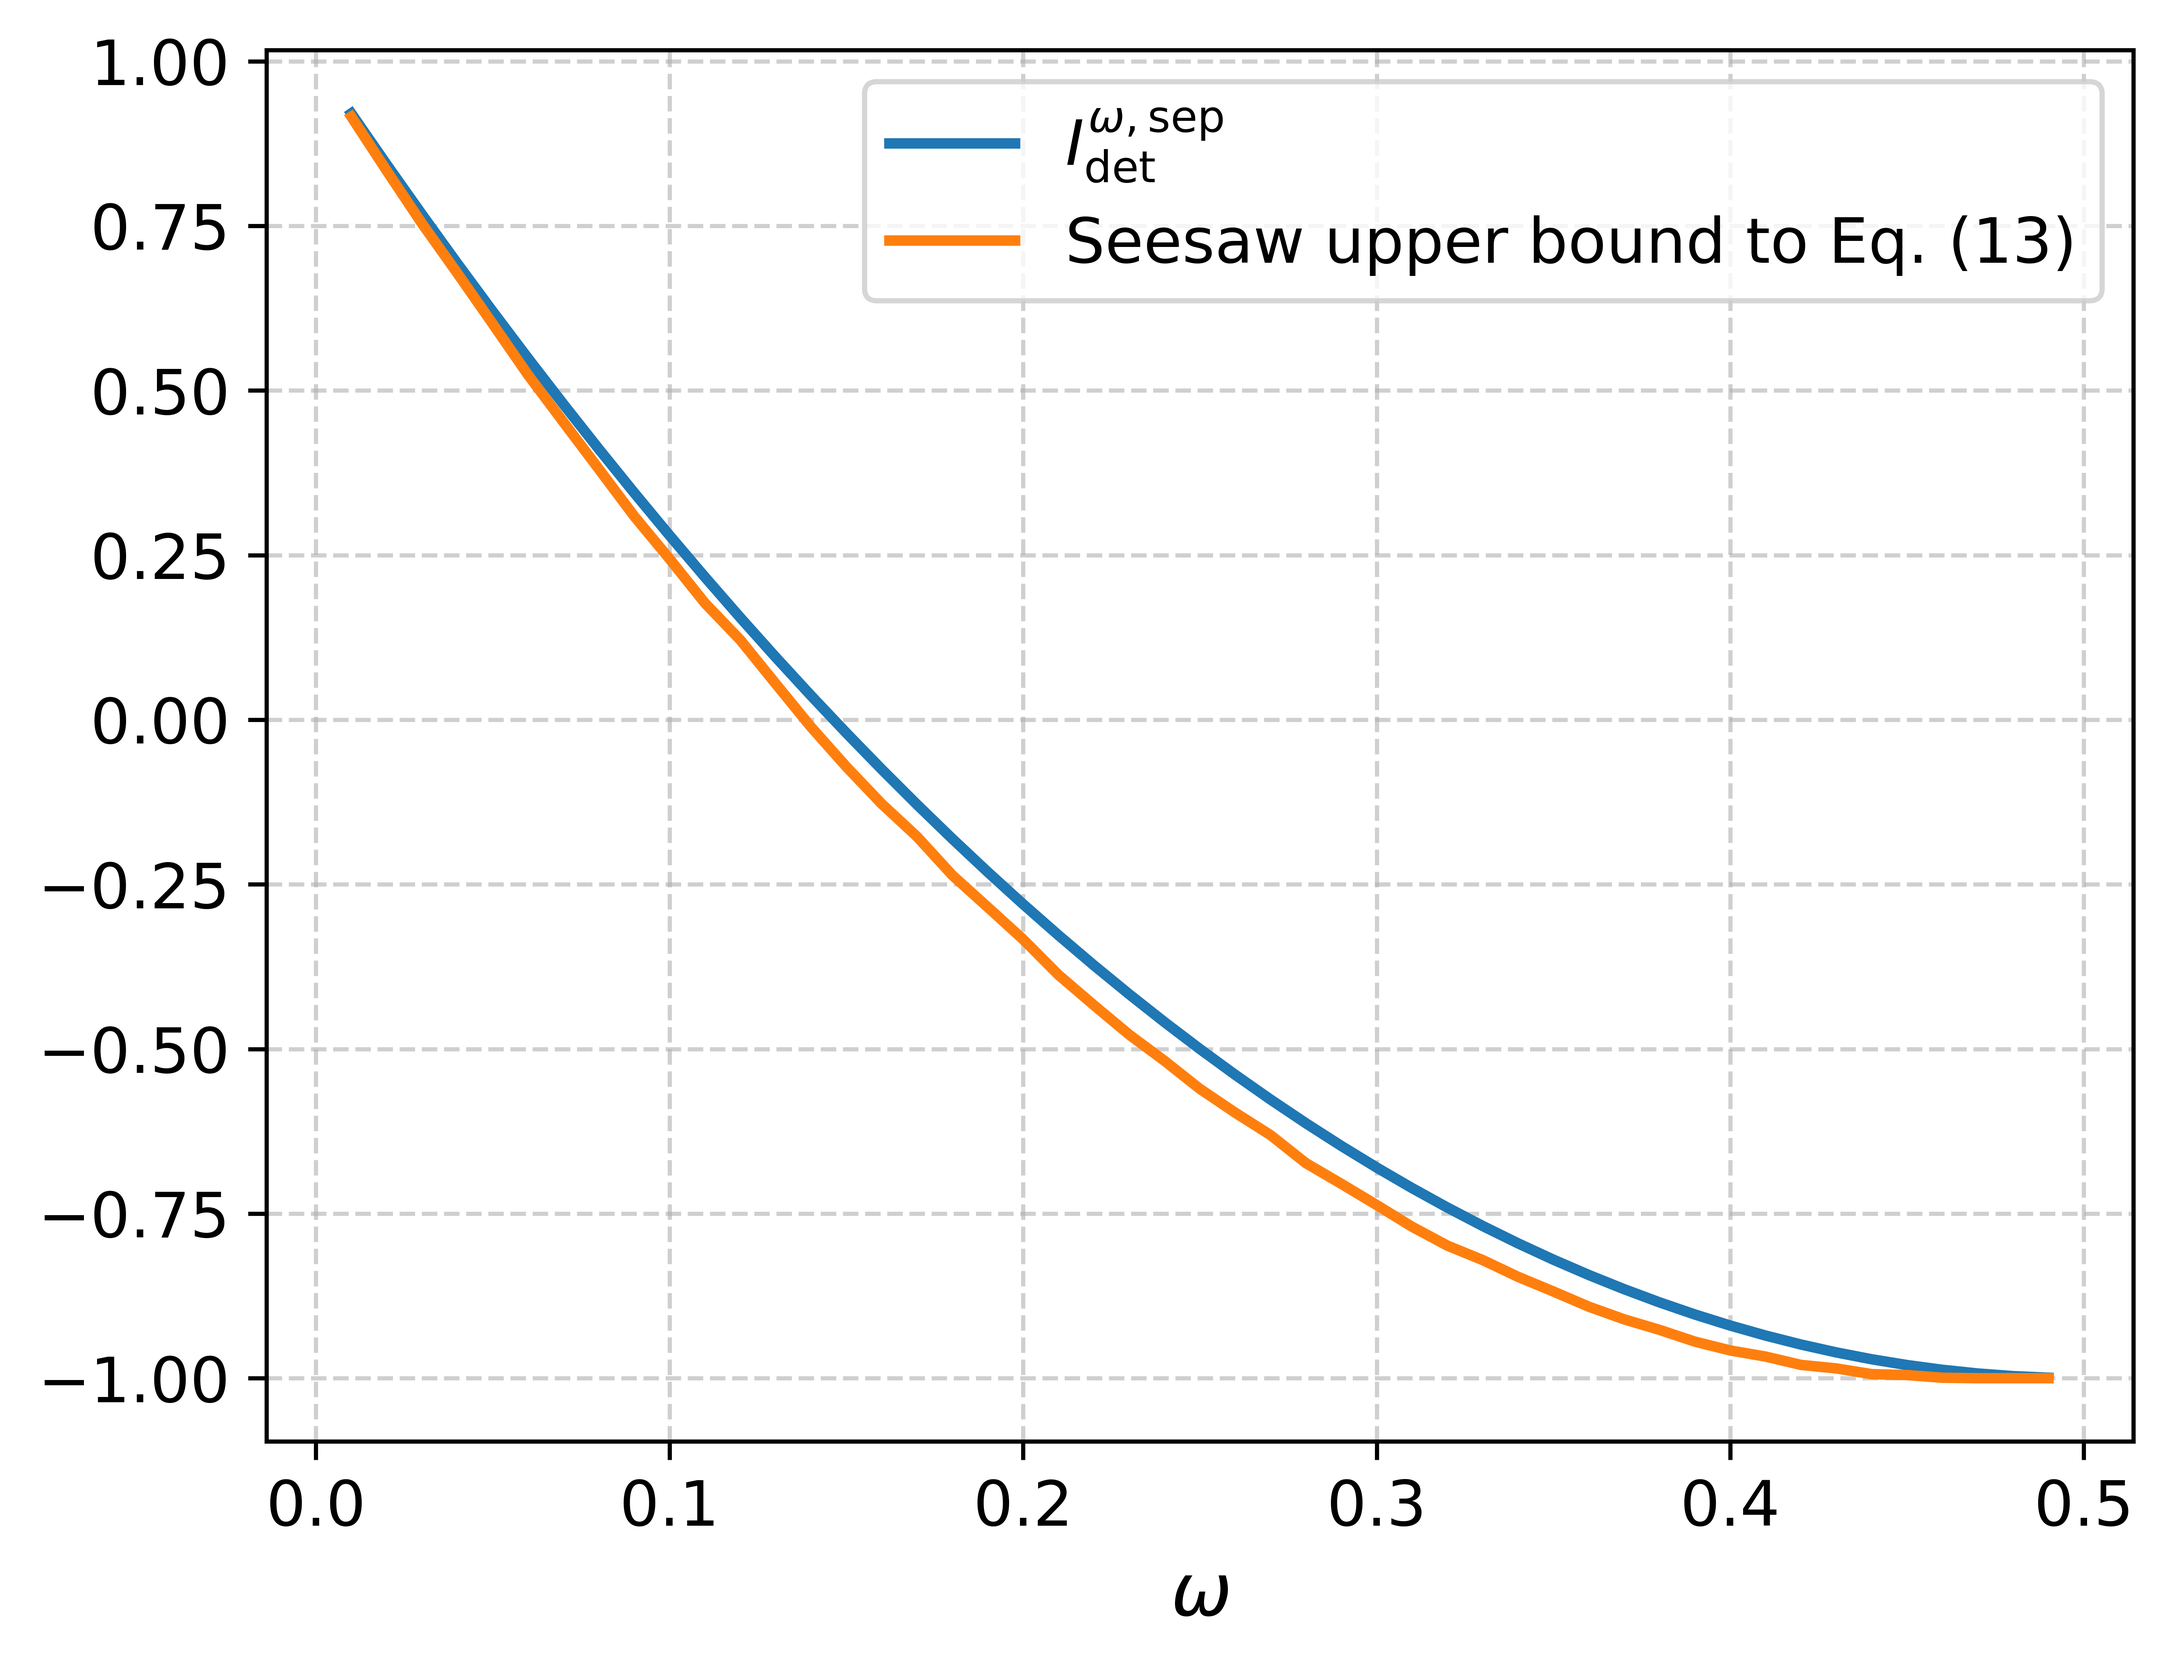
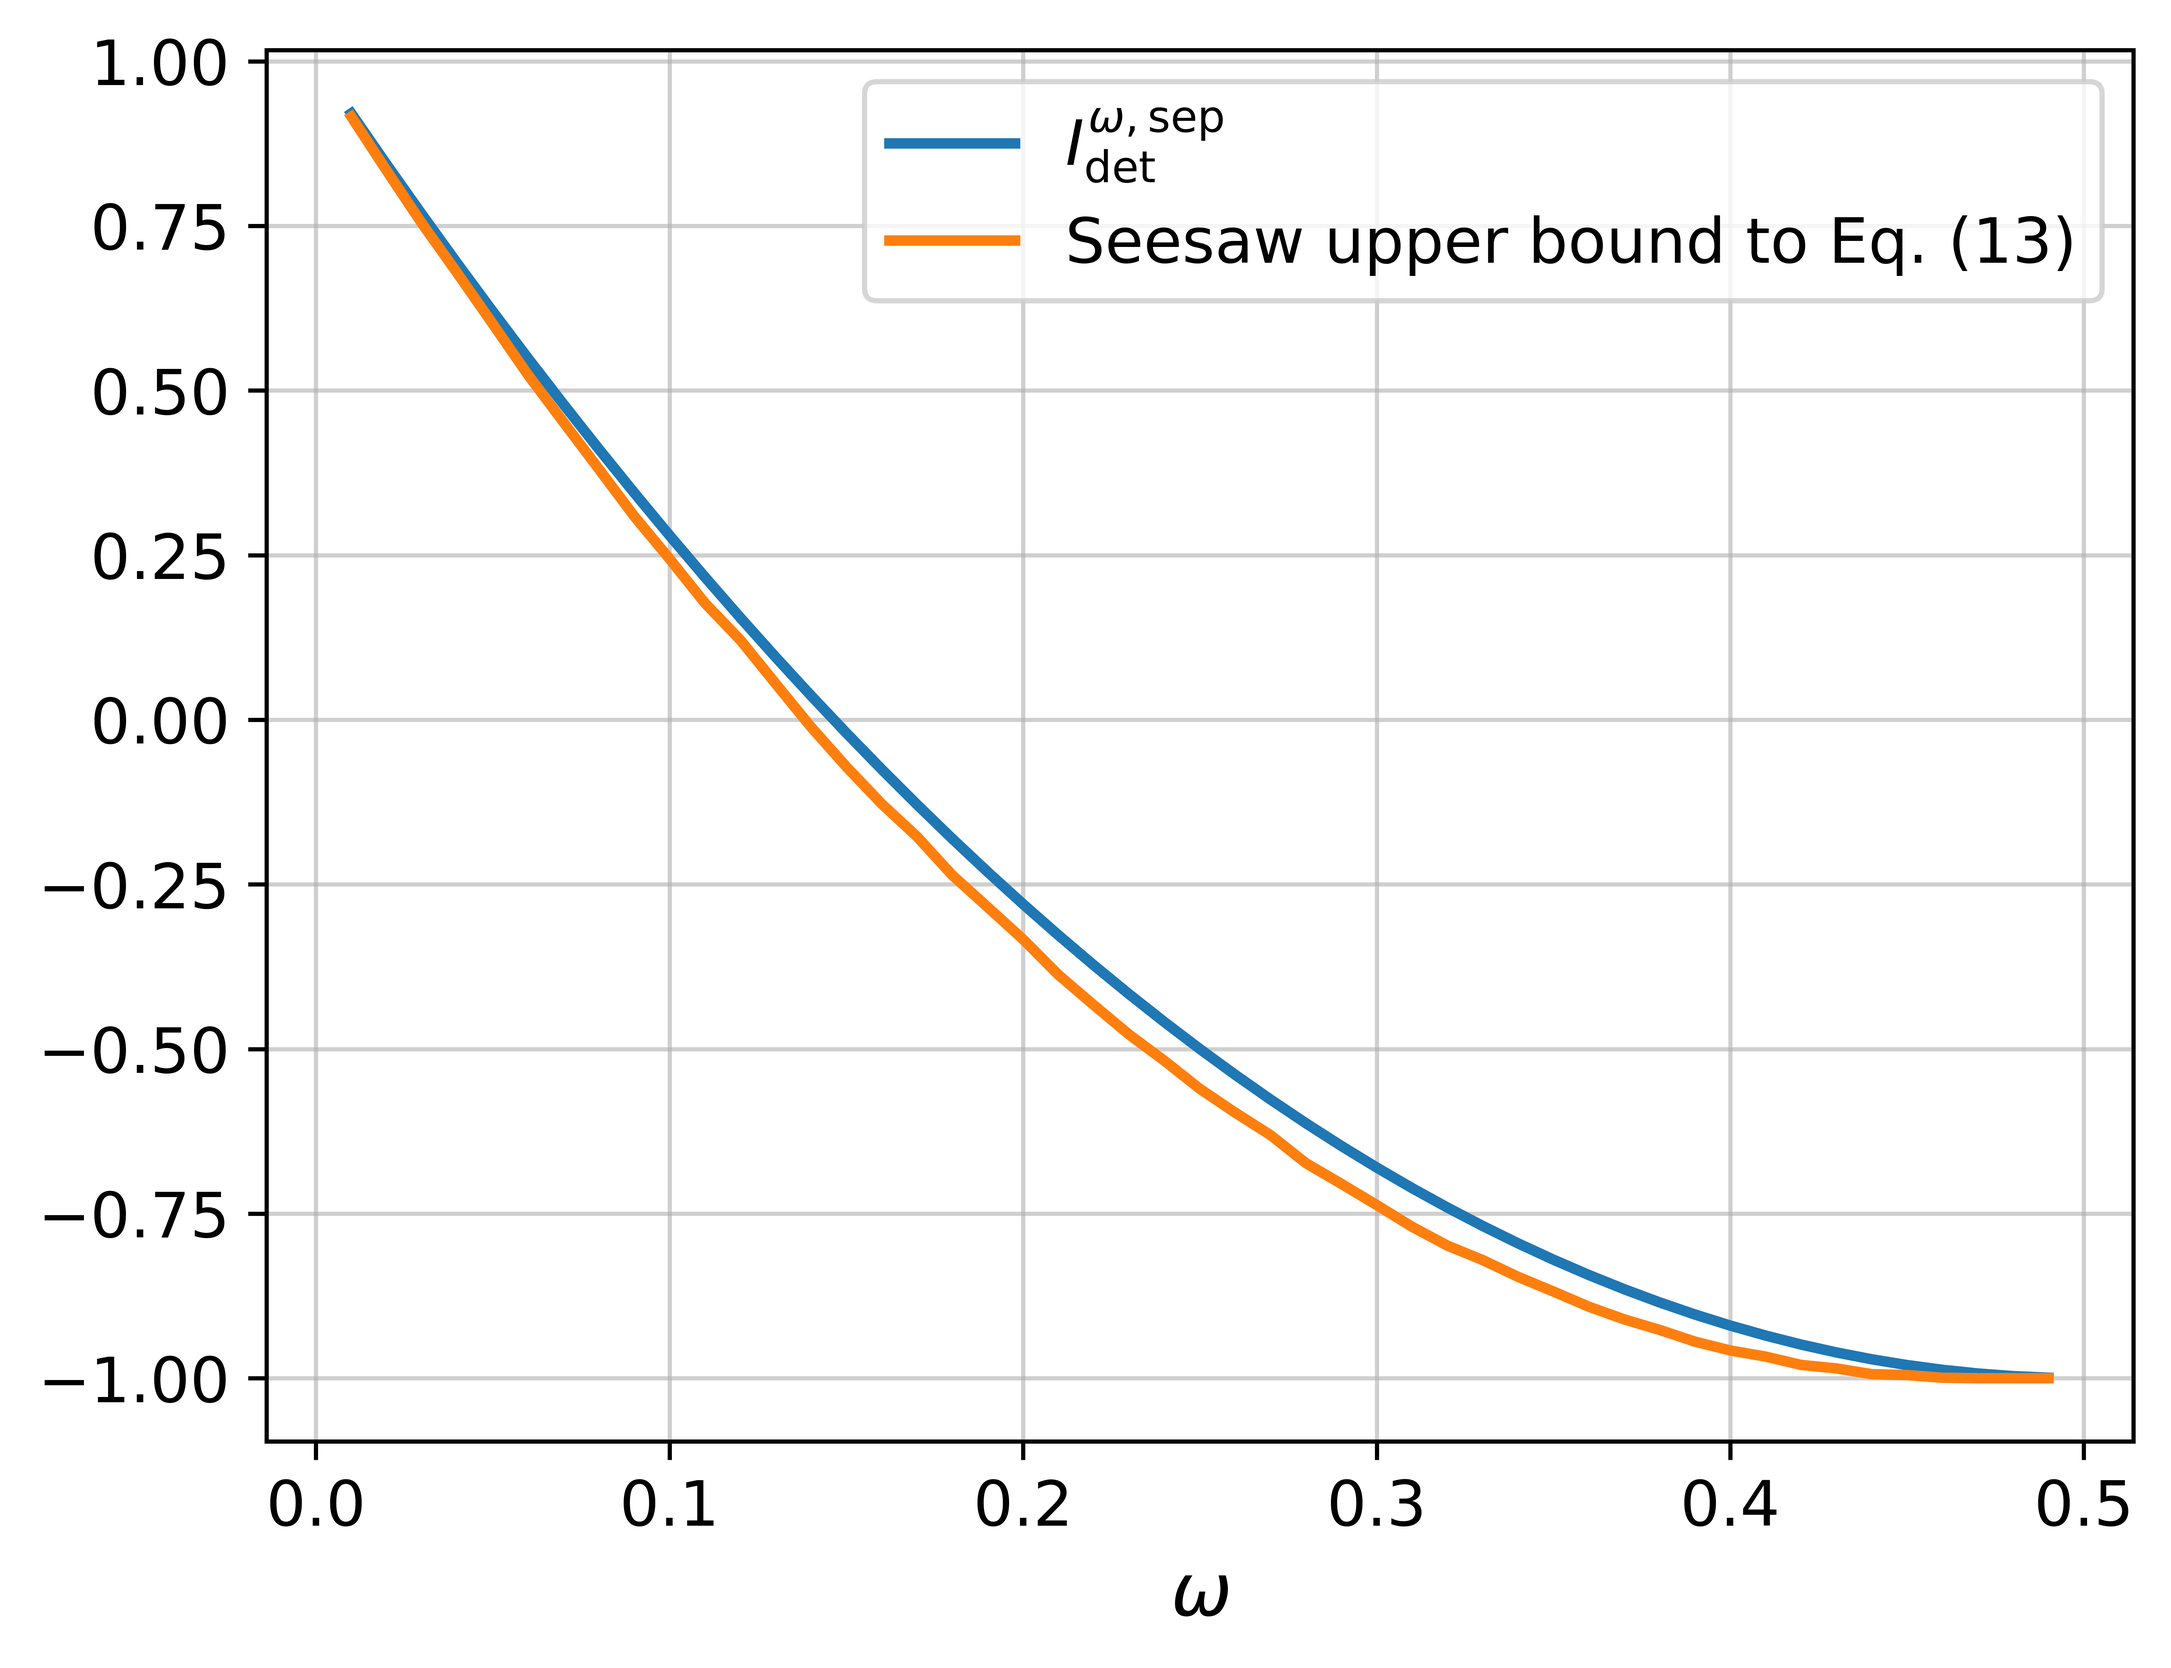
Last plots and added a few comments

diff --git a/Channel_discrim_advantage.py b/Channel_discrim_advantage.py
@@ -26,8 +26,15 @@ different distinguishability measures under energy constraints.
 if __name__ == "__main__":
     # Parameters
     omega_num = 50
-    p_values = np.linspace(0.00, 0.002, 3)
-    save  = False
+    p_values = np.linspace(0.00, 0.001, 2)
+
+    # Prepare output directory
+    save = False  # Set to False if you don't want to save result
+    output_file = "data_channel_discr_adv.txt"
+    base_dir = os.path.dirname(__file__)
+    data_dir = os.path.join(base_dir, "Data")
+    data_path = os.path.join(data_dir, output_file)
+    os.makedirs(data_dir, exist_ok=True)
 
     # Variables initialization
     p_opt = np.zeros(omega_num)
@@ -73,7 +80,7 @@ if __name__ == "__main__":
         
             
 
-            # Build operator A from the eigenbasis of sigma_SA^0
+            # Build operator A from the eigenbasis of sigma_SA^0 (Eq. C15)
             A = qt.Qobj([
                 [np.sqrt(2) * eigenvectors0[3][0][0][0], np.sqrt(2) * eigenvectors0[3][1][0][0]],
                 [np.sqrt(2) * eigenvectors0[3][2][0][0], np.sqrt(2) * eigenvectors0[3][3][0][0]]
@@ -89,14 +96,14 @@ if __name__ == "__main__":
                 [np.sqrt(2) * eigenvectors1[3][2][0][0], np.sqrt(2) * eigenvectors1[3][3][0][0]]
             ])
             
-            # Kraus operators of the effective channel
+            # Kraus operators of the effective channel (Eq. C13)
             E0 = np.sqrt(eigenvalues1[2])*B0*A.inv()
             E1 = np.sqrt(eigenvalues1[3])*B1*A.inv()
             
+
             # ---------------------------------------------------------------------
             # 1. Upper bound on the entanglement advantage without energy constraint.
             # ---------------------------------------------------------------------
-            
             
             # Compute diamond distance (no EC)  
             kraus = [E0, E1]
@@ -124,11 +131,11 @@ if __name__ == "__main__":
 
             ind_trace_dist_noEC = 2 * new_norm_max
 
+
             # ---------------------------------------------------------------------
             # 2. Lower bound on the entanglement advantage
             # in the energy-constrained scenario.
             # ---------------------------------------------------------------------
-
 
             # Compute a lower bound on the diamond distance (EC)
             diamond_dist_EC = 2 * qt.metrics.tracedist(sigmaSA0, sigmaSA1)
@@ -140,7 +147,6 @@ if __name__ == "__main__":
             # Variables:
             # x[0:3]  → Measurement operator M (2×2 Hermitian)
             # x[4:6]  → State psi (2×2 Hermitian, parametrized by Bloch components)
-            
             M = sp.Matrix([
                 [x[0],        x[1] + 1j * x[2]],
                 [x[1] - 1j * x[2],  x[3]]
@@ -151,15 +157,11 @@ if __name__ == "__main__":
                 [x[5] - 1j * x[6], 1 - x[4]]
             ])
 
-
             # Channel action on psi
             E0_psi_E0dag = E0_sym * psi * E0_sym.H
             E1_psi_E1dag = E1_sym * psi * E1_sym.H
 
-            # ---------------------------------------------------------------------
             # Inequalities: physical constraints (positivity, normalization, etc.)
-            # ---------------------------------------------------------------------
-
             inequalities = [
                 # Positivity of M
                 x[0], x[3], x[0] * x[3] - x[1] ** 2 - x[2] ** 2,
@@ -192,21 +194,14 @@ if __name__ == "__main__":
             fraction_EC = (1 + 0.5 * diamond_dist_EC) / (1 + 0.5 * ind_trace_dist_EC)
             
             
-            if fraction_EC/fraction_noEC>=advantage:
-                advantage = fraction_EC/fraction_noEC
+            if fraction_EC>=advantage:
+                advantage = fraction_EC
                 p_opt[count] = p
                 diamond_dist_noEC_list[count] = diamond_dist_noEC
                 ind_trace_dist_noEC_list[count] = ind_trace_dist_noEC 
                 diamond_dist_EC_list[count] = diamond_dist_EC
                 ind_trace_dist_EC_list[count] = ind_trace_dist_EC
 
-
-    # Define base and data directories
-    base_dir = os.path.dirname(__file__)
-    data_dir = os.path.join(base_dir, "Data")
-    os.makedirs(data_dir, exist_ok=True)
-
-    data_path = os.path.join(data_dir, "data_channel_discr_adv.txt")
 
 
     # Stack the arrays column-wise (each column: omega, non-entangled, entangled)
@@ -217,9 +212,9 @@ if __name__ == "__main__":
 
     results = np.column_stack((omega, ea, non_ea))
 
-# ----------------------------------------------------------------------
-# Stack and save results
-# ----------------------------------------------------------------------
+    # ----------------------------------------------------------------------
+    # Stack and save results
+    # ----------------------------------------------------------------------
     if save:
         with open(data_path, "w") as f:
             f.write("# omega, entangled_adv, non_entangled_adv\n")
@@ -236,5 +231,5 @@ if __name__ == "__main__":
     plot_channel_discrimination_advantage(
         results,    # Use `results` to plot data from this run, or "Data/filename.txt" to plot previously saved data
         save_as="Fig_channel_discr_adv.png",
-        save=True
+        save=False
     )

diff --git a/utils.py b/utils.py
@@ -1018,7 +1018,7 @@ def plot_deterministic_inequality_violation(data_source,
 
     ax.set_xlabel(r'$\omega$', fontsize=14)
     ax.tick_params(axis='both', labelsize=12)
-    ax.grid(True, linestyle="--", alpha=0.6)
+    ax.grid(True, alpha=0.6)
     ax.legend(fontsize=12)
 
     # ------------------------------------------------------------------
@@ -1102,7 +1102,7 @@ def plot_channel_discrimination_advantage(data_source,
 
     ax.set_xlabel(r'$\omega$', fontsize=14)
     ax.tick_params(axis='both', labelsize=12)
-    ax.grid(True, linestyle='--', alpha=0.6)
+    ax.grid(True, alpha=0.6)
     ax.legend(fontsize=12, loc='best')
 
     # ------------------------------------------------------------------

diff --git a/Viol_det_ineq.py b/Viol_det_ineq.py
@@ -126,5 +126,5 @@ if __name__ == "__main__":
     plot_deterministic_inequality_violation(
         "Data/data_viol_det_ineq.txt",  # Use `results` to plot data from this run, or "Data/filename.txt" to plot previously saved data
         save_as="Fig_viol_det_ineq.png",
-        save=False
+        save=True
     )
